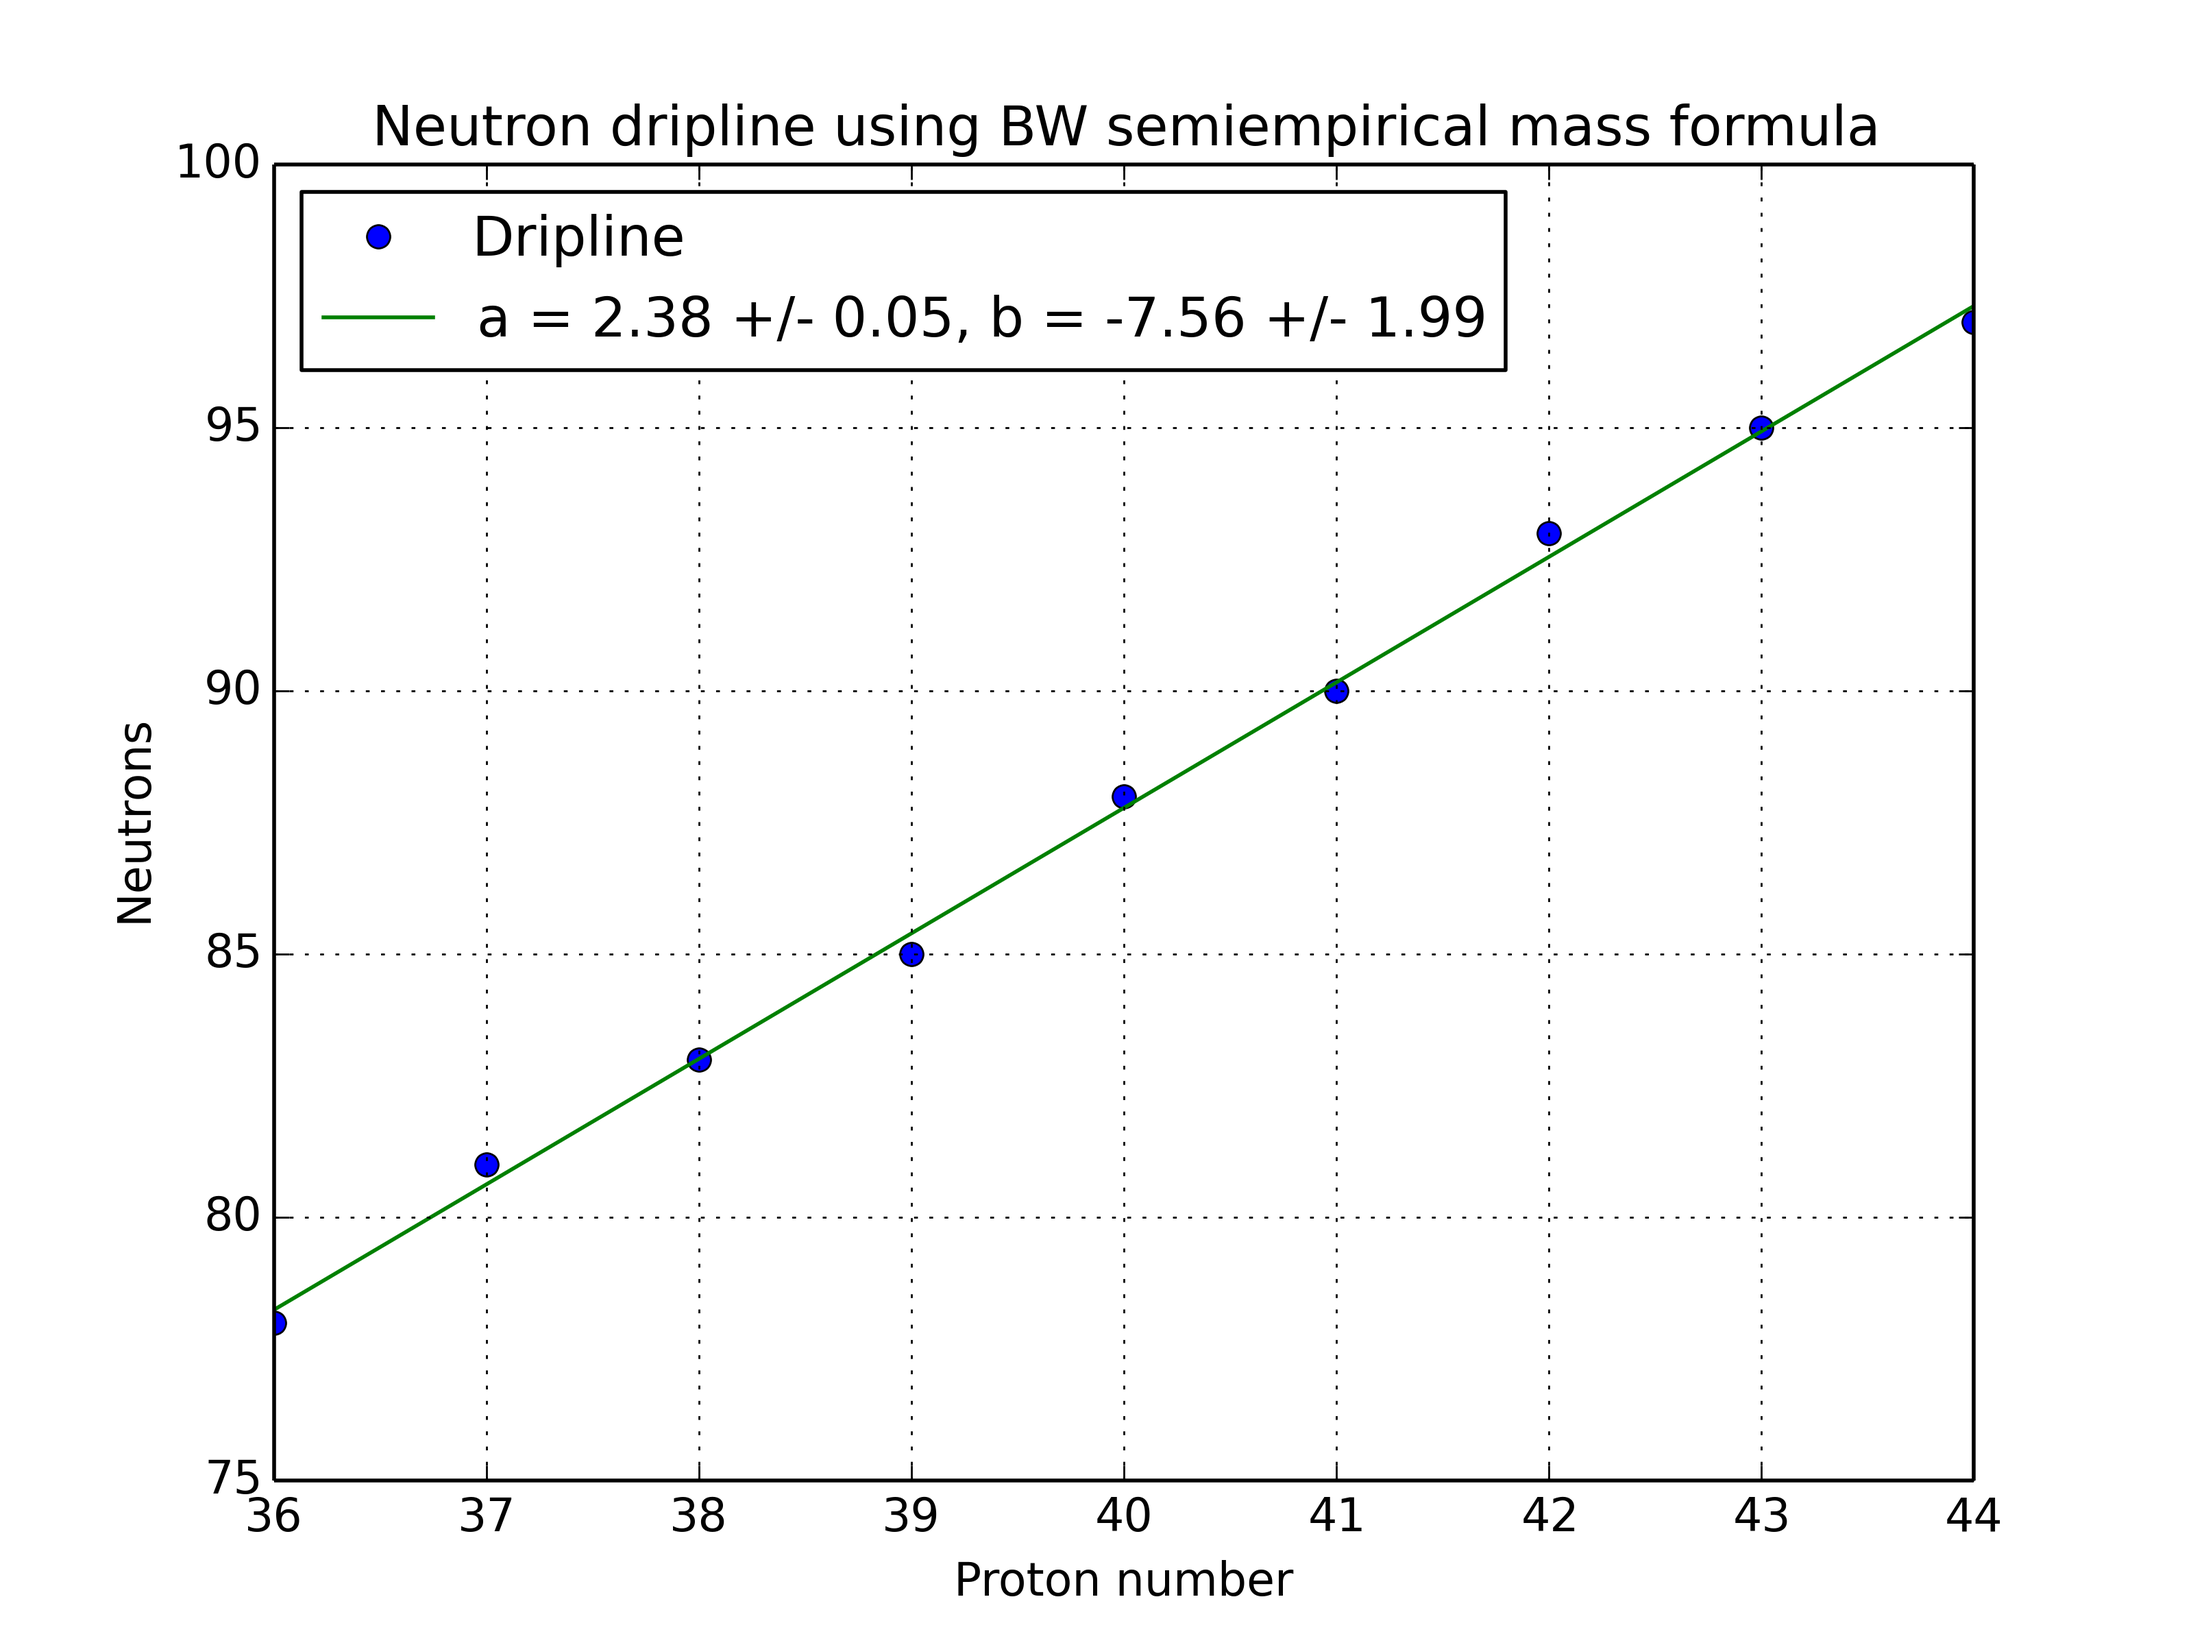
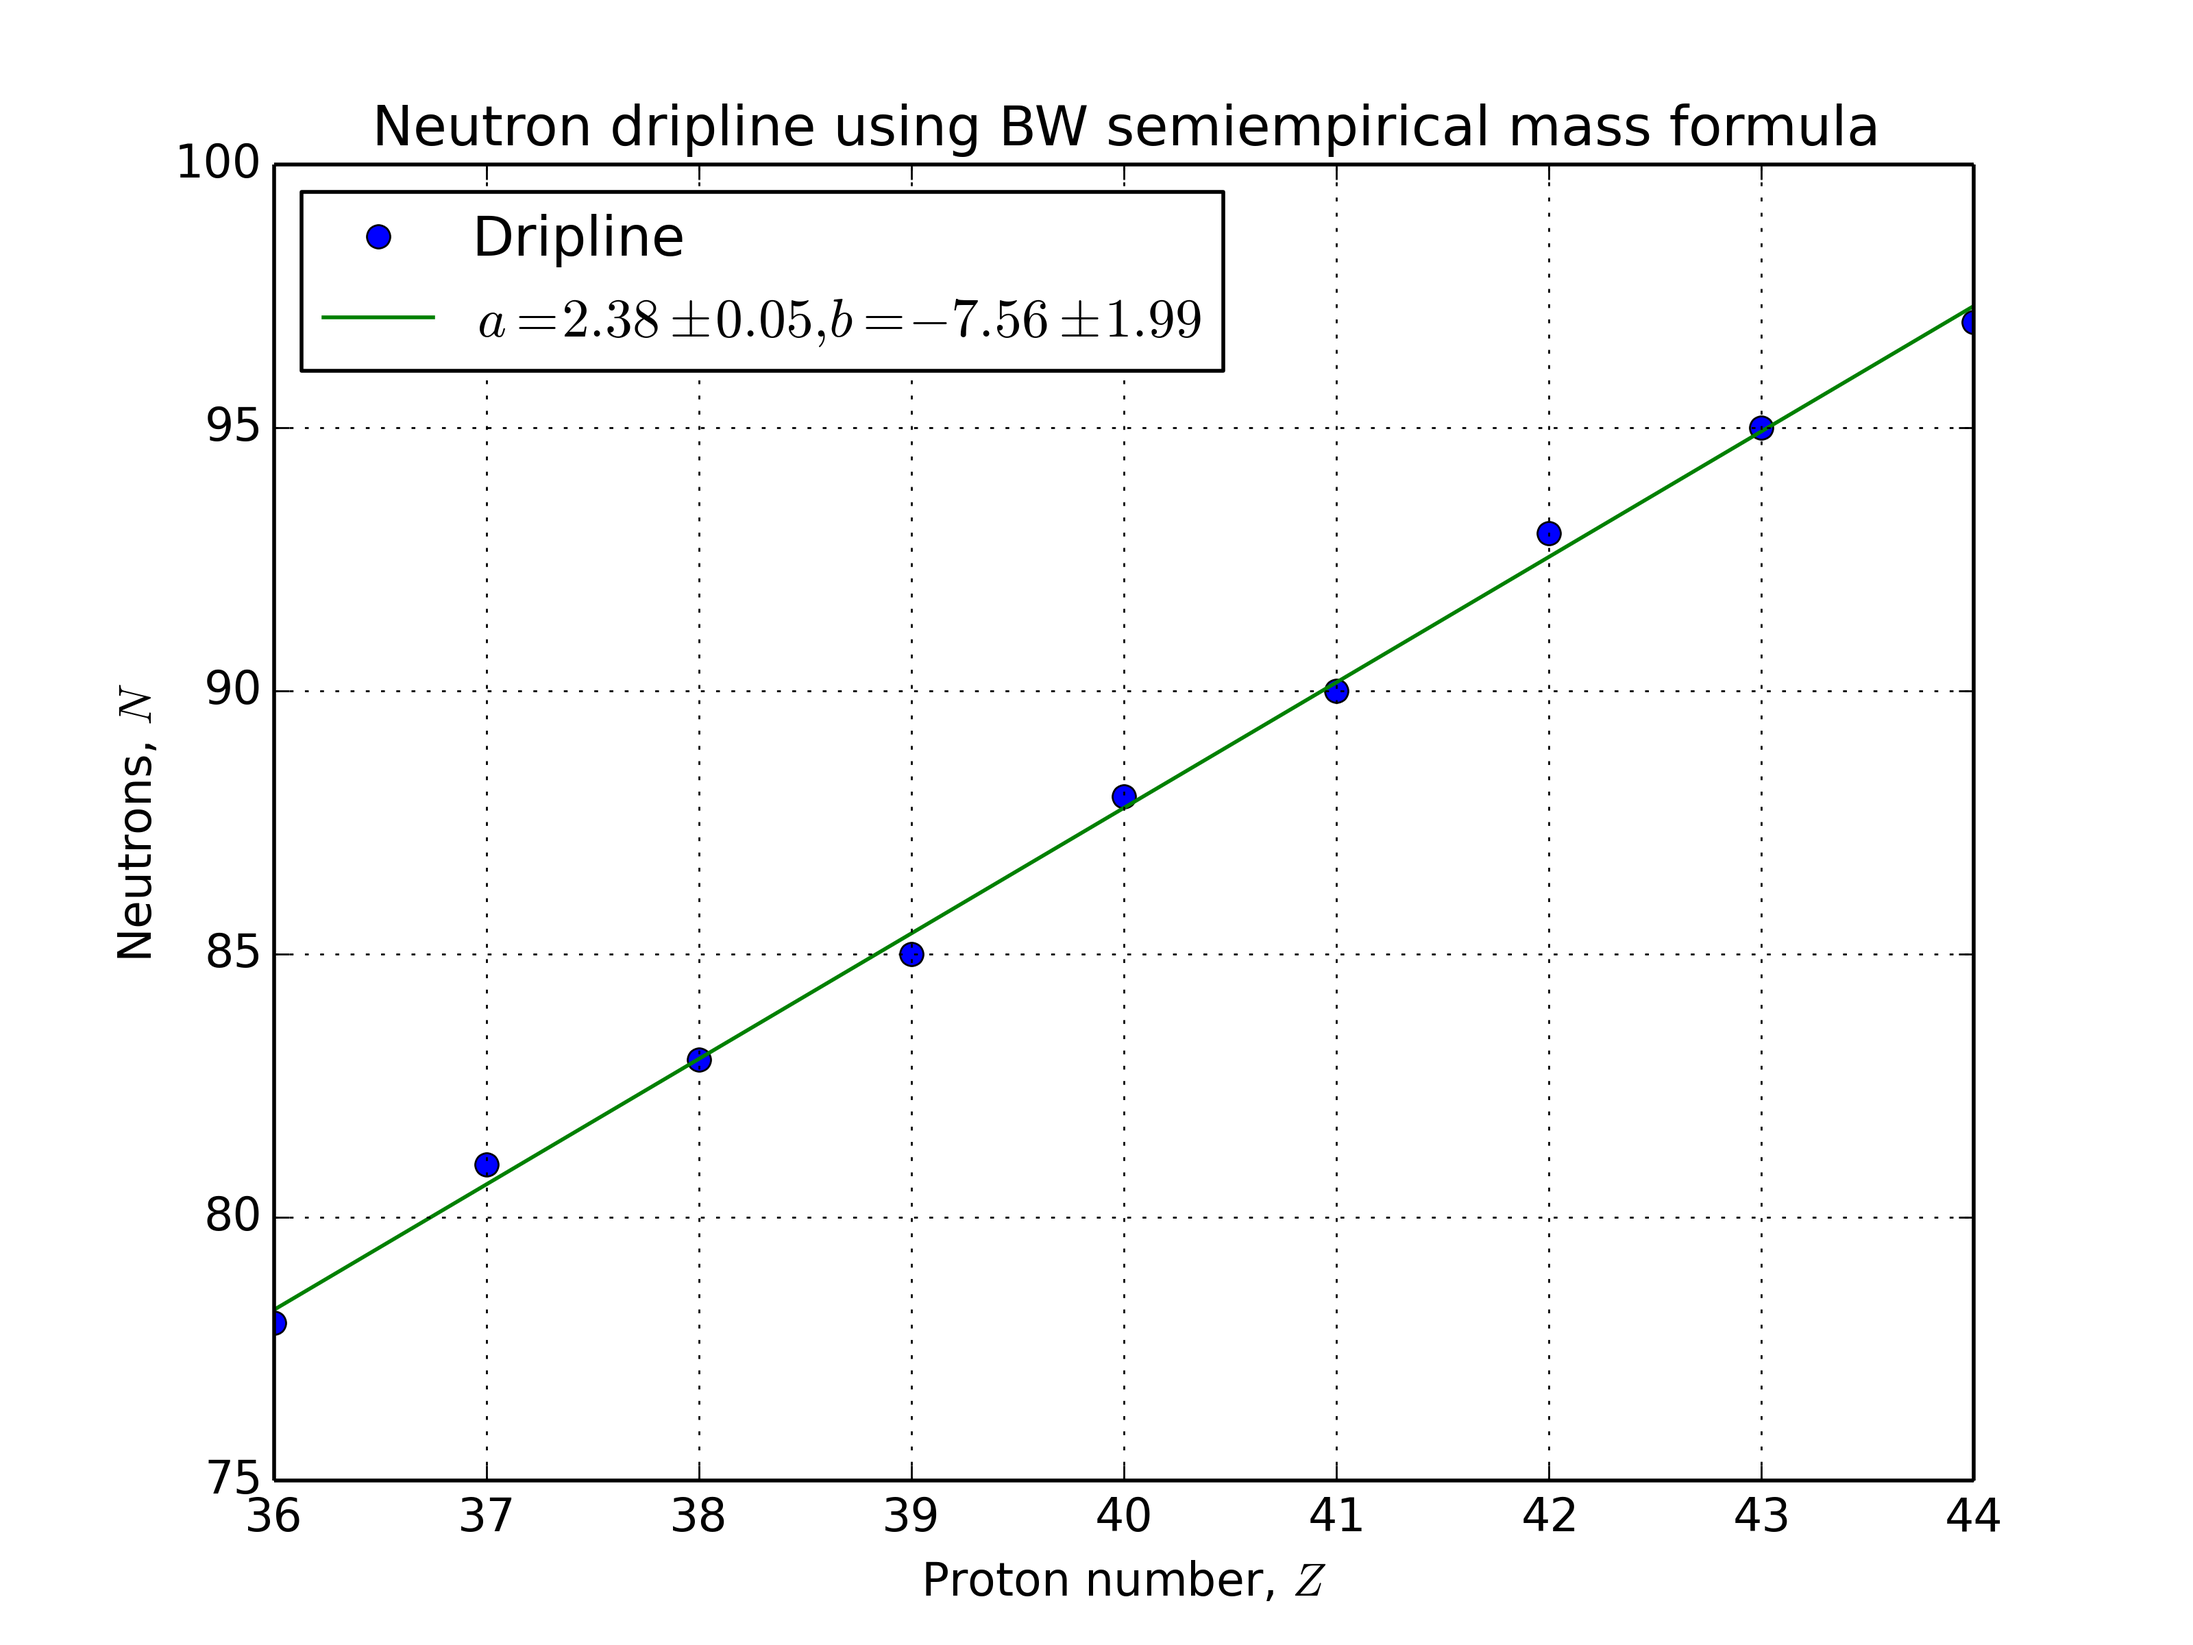
Added latex syntax

diff --git a/ex1ect.py b/ex1ect.py
@@ -94,10 +94,10 @@ print "a_err = %.6g, b_err = %.6g" % (errors[0],errors[1])
 plt.plot(Z_Range, Ndrip,"o",label="Dripline")
 plt.hold(True)
 plt.grid(True)
-plt.plot(x,y,label="a = %.2f +/- %.2f, b = %.2f +/- %.2f" % (fit[0], errors[0], fit[1], errors[1]))
+plt.plot(x,y,label=r"$a = %.2f \pm %.2f, b = %.2f \pm %.2f$" % (fit[0], errors[0], fit[1], errors[1]))
 plt.legend(loc="best",numpoints=1)
-plt.xlabel('Proton number')
-plt.ylabel('Neutrons')
+plt.xlabel(r'Proton number, $Z$')
+plt.ylabel(r'Neutrons, $N$')
 plt.title('Neutron dripline using BW semiempirical mass formula')
 plt.savefig("dripline.png",dpi=400)
 plt.show()
